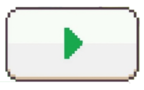
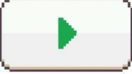
Botões no Menu Principal

Changed region(s): [[0.0, 0.0, 1.0, 0.973], [0.4242, 0.2162, 0.6061, 0.6757], [0.4848, 0.5676, 0.5152, 0.6216]]

diff --git a/Game_bird/core/src/GameView/MainMenu.java b/Game_bird/core/src/GameView/MainMenu.java
@@ -14,11 +14,13 @@ import com.badlogic.gdx.scenes.scene2d.Event;
 import com.badlogic.gdx.scenes.scene2d.EventListener;
 import com.badlogic.gdx.scenes.scene2d.InputEvent;
 import com.badlogic.gdx.scenes.scene2d.Stage;
+import com.badlogic.gdx.scenes.scene2d.Touchable;
 import com.badlogic.gdx.scenes.scene2d.ui.Button;
 import com.badlogic.gdx.scenes.scene2d.ui.Image;
 import com.badlogic.gdx.scenes.scene2d.ui.ImageButton;
 import com.badlogic.gdx.scenes.scene2d.ui.Label;
 import com.badlogic.gdx.scenes.scene2d.ui.Table;
+import com.badlogic.gdx.scenes.scene2d.ui.VerticalGroup;
 import com.badlogic.gdx.scenes.scene2d.utils.ClickListener;
 import com.badlogic.gdx.scenes.scene2d.utils.TextureRegionDrawable;
 import com.badlogic.gdx.utils.Scaling;
@@ -41,9 +43,10 @@ public class MainMenu implements Screen {
     private Viewport gamePort;
     private Stage stage;
     private Texture backGround;
-    private ImageButton playBtn;
+    private ImageButton firstbtn, instr, scores, options, exit;
     private FlyChicken game;
     private Texture btnTexture;
+
 
     private static MainMenu instance = null;
 
@@ -60,30 +63,77 @@ public class MainMenu implements Screen {
         stage = new Stage(gamePort, game.batch);
         Gdx.input.setInputProcessor(stage);
         backGround = new Texture(Gdx.files.internal("backg.png"));
-        btnTexture = new Texture(Gdx.files.internal("bir.png"));
+        btnTexture = new Texture(Gdx.files.internal("btn.png"));
 
-        TextureRegion regionBckg = new TextureRegion(backGround, 0 ,0);
-        Image bckg = new Image(regionBckg);
-
-        stage.addActor(bckg);
-
-        Texture playButton = new Texture(Gdx.files.internal("playbtn.png"));
-        TextureRegion playBtnRegion = new TextureRegion(playButton, 150, 150);
+        Texture playButton = new Texture(Gdx.files.internal("firstbtn.png"));
+        TextureRegion playBtnRegion = new TextureRegion(playButton);
         TextureRegionDrawable playBtnDraw = new TextureRegionDrawable(playBtnRegion);
-        playBtn = new ImageButton(playBtnDraw);
 
-        playBtn.addListener(new EventListener() {
+
+
+
+
+        TextureRegion btnRegion = new TextureRegion(btnTexture);
+        TextureRegionDrawable btnDrawOptn = new TextureRegionDrawable(btnRegion);
+        options = new ImageButton(btnDrawOptn);
+        firstbtn = new ImageButton(btnDrawOptn);
+        instr=new ImageButton(btnDrawOptn);
+        scores=new ImageButton(btnDrawOptn);
+        exit=new ImageButton(btnDrawOptn);
+
+
+
+        Label.LabelStyle font = new Label.LabelStyle(new BitmapFont(), Color.WHITE);
+
+/*
+        Table table = new Table();
+        table.setFillParent(true);
+        table.setDebug(true);
+        table.center();
+*/
+
+
+
+
+     //   table.setOrigin(FlyChicken.WIDTH/2, FlyChicken.HEIGHT/2);
+     //   table.setPosition(FlyChicken.WIDTH/2 - table.getWidth()/2, FlyChicken.HEIGHT/2-table.getHeight()/2);
+
+
+
+    //    table.setBounds(0,0,FlyChicken.WIDTH,FlyChicken.HEIGHT);
+
+     //   table.setTouchable(Touchable.enabled);
+
+
+
+    /*    table.add(playBtn).fill();
+
+        table.row();
+        table.add(options).setActorHeight(88);
+
+        stage.addActor(table);*/
+        stage.setDebugParentUnderMouse(true);
+        firstbtn.setPosition(Gdx.graphics.getWidth()/2-(firstbtn.getWidth()/2),Gdx.graphics.getHeight()-firstbtn.getHeight()-playButton.getHeight()-Gdx.graphics.getHeight()*0.2f);
+        //firstbtn.setPosition(91,450);
+        instr.setPosition(91, 360);
+        options.setPosition(91, 180);
+        exit.setPosition(91, 90);
+        scores.setPosition(91,270);
+        stage.addActor(firstbtn);
+     /*   stage.addActor(instr);
+        stage.addActor(scores);
+        stage.addActor(options);
+        stage.addActor(exit);
+*/
+
+
+        instr.addListener(new EventListener() {
             @Override
             public boolean handle(Event event) {
-                onClickPlay();
+                onClickOInstructions();
                 return true;
             }
         });
-
-        TextureRegion btnRegion = new TextureRegion(btnTexture, 298, 88);
-        TextureRegionDrawable btnDrawOptn = new TextureRegionDrawable(btnRegion);
-        ImageButton options = new ImageButton(btnDrawOptn);
-
 
         options.addListener(new EventListener() {
             @Override
@@ -93,30 +143,56 @@ public class MainMenu implements Screen {
             }
         });
 
+        scores.addListener(new EventListener() {
+            @Override
+            public boolean handle(Event event) {
+                onClickScores();
+                return true;
+            }
+        });
+        exit.addListener(new EventListener() {
+            @Override
+            public boolean handle(Event event) {
+                onClickExit();
+                return true;
+            }
+        });
 
-        Label.LabelStyle font = new Label.LabelStyle(new BitmapFont(), Color.WHITE);
-
-        Table table = new Table();
-        //table.top();
-        table.center();
-        table.setFillParent(true);
-        Label play = new Label("Play", font);
-        table.add(playBtn).expandX();
-        table.row();
-        table.add(options).expandX().setActorHeight(150);
-
-        stage.addActor(table);
+        firstbtn.addListener(new EventListener() {
+            @Override
+            public boolean handle(Event event) {
+                onClickPlay();
+                return true;
+            }
+        });
     }
 
     public void onClickPlay() {
         if(Gdx.input.isTouched()) {
             game.setScreen(PlayState.GetInstance());
+            System.out.println("Play");
         }
     }
 
     public void onClickOptions() {
         if(Gdx.input.isTouched()) {
-            System.out.println("Options");
+            System.out.println("Options");}
+    }
+
+    public void onClickOInstructions() {
+        if(Gdx.input.isTouched()) {
+            System.out.println("Instr");
+        }
+    }
+    public void onClickScores() {
+        if(Gdx.input.isTouched()) {
+            System.out.println("Scores");
+        }
+    }
+    public void onClickExit() {
+        if(Gdx.input.isTouched()) {
+            System.out.println("Sair");
+            System.exit(0);
         }
     }
 
@@ -129,9 +205,9 @@ public class MainMenu implements Screen {
     public void render(float delta) {
         Gdx.gl.glClear(GL20.GL_COLOR_BUFFER_BIT);
         stage.getBatch().begin();
-        stage.getBatch().draw(backGround, 0,0, FlyChicken.WIDTH, FlyChicken.HEIGHT);
+     //   stage.getBatch().draw(backGround, 0,0, FlyChicken.WIDTH, FlyChicken.HEIGHT);
         stage.getBatch().end();
-
+        stage.act(delta);
         stage.draw();
 
     }
